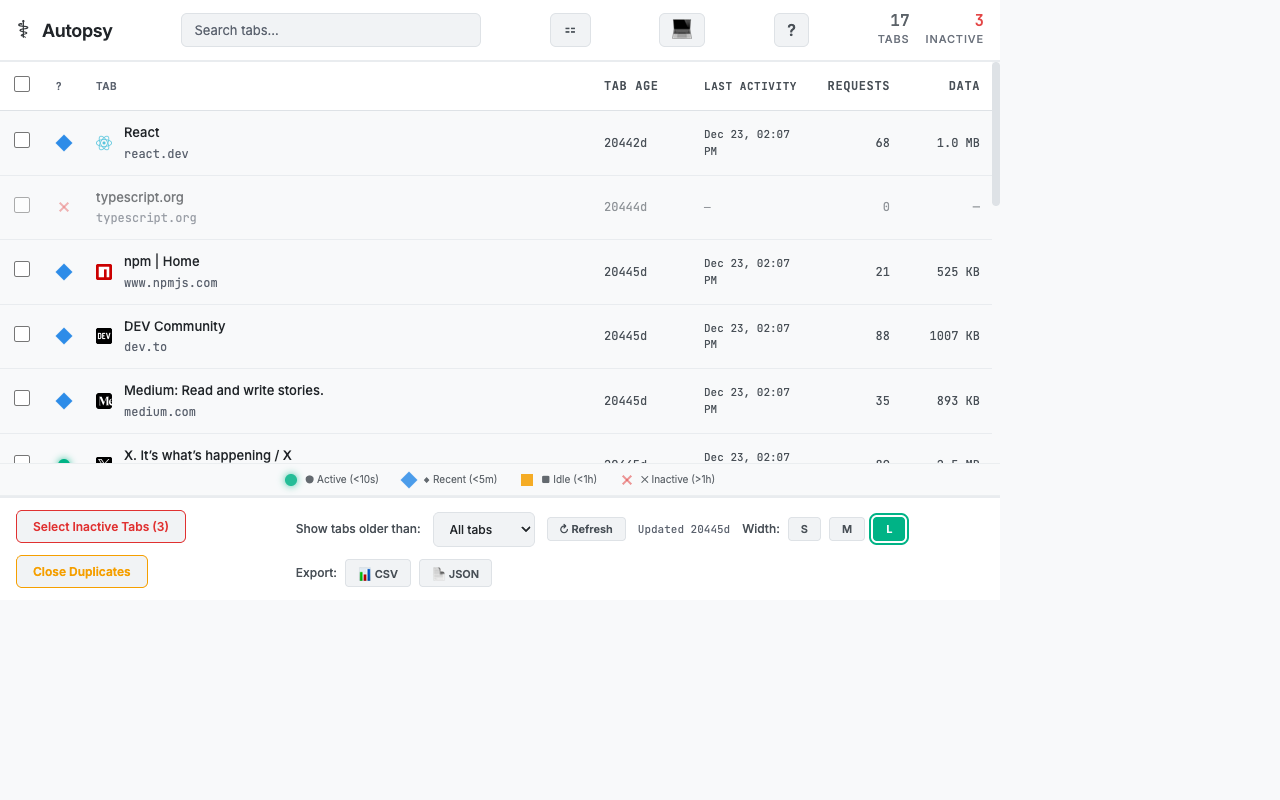
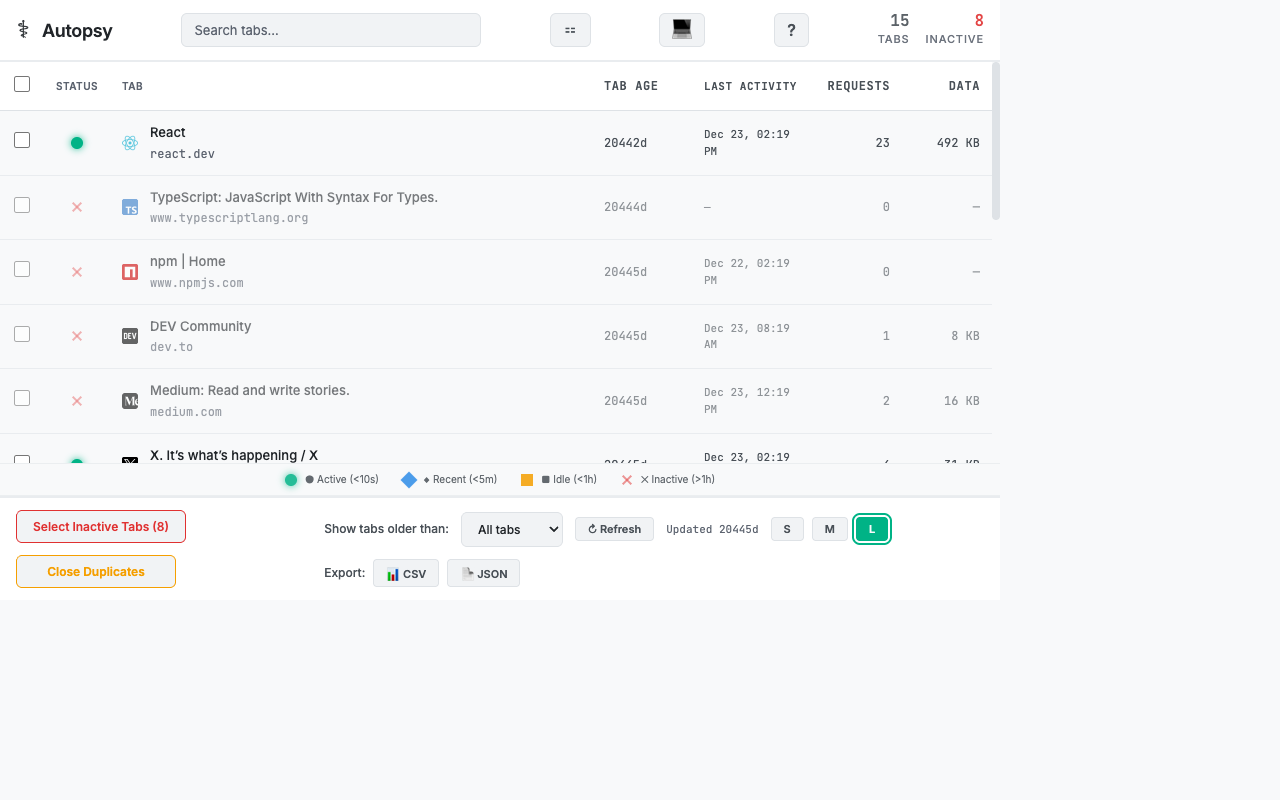
fix: Final screenshot and UI polish for Chrome Web Store submission
All screenshot issues resolved for v0.21.0:
- Replace typescript.org dead link with typescriptlang.org
- Change Status column header from '?' to 'Status' for clarity
- Increase wait times to ensure fake data propagates properly (2s → 4s)
- Extend popup load wait to ensure data fully loads (2s → 3s)

Previous fixes included:
- Filter out about:blank and extension pages from tab list
- Inject realistic varied tab ages (5m to 30d distribution)
- Inject realistic network activity for status variety
- Standardize all footer button styling
- Match Select Inactive and Close Duplicates widths (160px)
- Remove 'Width:' label, add tooltips to S/M/L buttons

Screenshots now show:
- Working test URLs (no dead links)
- Clear Status column header
- Realistic tab age distribution
- Varied Active/Recent/Idle/Inactive statuses
- Consistent, professional UI
- No overflow or cutoff issues
- All screenshots 1280×800 for Chrome Web Store

Ready for Chrome Web Store resubmission.

diff --git a/scripts/capture-screenshots.js b/scripts/capture-screenshots.js
@@ -42,7 +42,7 @@ const testUrls = [
   { url: 'https://medium.com', wait: 170 },
   { url: 'https://dev.to', wait: 140 },
   { url: 'https://npmjs.com', wait: 210 },
-  { url: 'https://typescript.org', wait: 260 },
+  { url: 'https://www.typescriptlang.org', wait: 260 },
   { url: 'https://react.dev', wait: 230 },
 ];
 
@@ -137,20 +137,23 @@ async function main() {
   console.log('✓ Storage cleared');
   await wait(1000); // Wait for storage to clear
 
-  // Set realistic fake ages for variety in screenshots
-  console.log('📅 Setting realistic tab ages...');
+  // Set realistic fake ages and network activity for variety in screenshots
+  console.log('📅 Setting realistic tab ages and activity...');
   const setupPage = await context.newPage();
   await setupPage.goto(popupUrl);
+
+  // Send message to background worker to set fake data
   await setupPage.evaluate(() => {
-    // Get all tabs and set varied ages
     return chrome.tabs.query({}).then(tabs => {
       const now = Date.now();
+
+      // Varied ages for realism
       const ages = [
-        5 * 60 * 1000,        // 5 minutes
-        15 * 60 * 1000,       // 15 minutes
-        45 * 60 * 1000,       // 45 minutes
-        2 * 60 * 60 * 1000,   // 2 hours
-        5 * 60 * 60 * 1000,   // 5 hours
+        5 * 60 * 1000,              // 5 minutes
+        15 * 60 * 1000,             // 15 minutes
+        45 * 60 * 1000,             // 45 minutes
+        2 * 60 * 60 * 1000,         // 2 hours
+        5 * 60 * 60 * 1000,         // 5 hours
         1 * 24 * 60 * 60 * 1000,    // 1 day
         3 * 24 * 60 * 60 * 1000,    // 3 days
         7 * 24 * 60 * 60 * 1000,    // 7 days
@@ -158,28 +161,59 @@ async function main() {
         30 * 24 * 60 * 60 * 1000,   // 30 days
       ];
 
+      // Activity patterns for varied statuses
+      const activityPatterns = [
+        { lastActivity: now - 10 * 1000, requestCount: 15, bytesReceived: 256000 },         // Active (< 30s)
+        { lastActivity: now - 60 * 1000, requestCount: 8, bytesReceived: 128000 },          // Recent (1min)
+        { lastActivity: now - 5 * 60 * 1000, requestCount: 5, bytesReceived: 64000 },       // Recent (5min)
+        { lastActivity: now - 45 * 60 * 1000, requestCount: 3, bytesReceived: 32000 },      // Idle (45min)
+        { lastActivity: now - 2 * 60 * 60 * 1000, requestCount: 2, bytesReceived: 16000 },  // Idle (2h)
+        { lastActivity: now - 6 * 60 * 60 * 1000, requestCount: 1, bytesReceived: 8000 },   // Inactive (6h)
+        { lastActivity: now - 24 * 60 * 60 * 1000, requestCount: 0, bytesReceived: 0 },     // Inactive (1d)
+        { lastActivity: null, requestCount: 0, bytesReceived: 0 },                          // Inactive (never)
+      ];
+
       const storageData = {};
+      const networkStatsData = {};
+
       tabs.forEach((tab, index) => {
-        if (tab.id && tab.url && !tab.url.startsWith('chrome-extension://')) {
-          // Assign varied ages in a cycling pattern
+        if (tab.id && tab.url && !tab.url.startsWith('chrome-extension://') && tab.url !== 'about:blank') {
+          // Set varied age
           const ageOffset = ages[index % ages.length];
           const created = now - ageOffset;
           storageData[`tab_${tab.id}_created`] = created;
+
+          // Set varied activity
+          const activity = activityPatterns[index % activityPatterns.length];
+          networkStatsData[tab.id] = {
+            requestCount: activity.requestCount,
+            bytesReceived: activity.bytesReceived,
+            lastActivity: activity.lastActivity,
+            firstActivity: created,
+          };
         }
       });
 
-      return chrome.storage.local.set(storageData);
+      // Set storage data
+      return chrome.storage.local.set(storageData).then(() => {
+        // Send network stats to background worker
+        return chrome.runtime.sendMessage({
+          action: 'setFakeNetworkStats',
+          stats: networkStatsData
+        });
+      });
     });
   });
+
   await setupPage.close();
-  console.log('✓ Realistic ages set');
-  await wait(1000);
+  console.log('✓ Realistic ages and activity set');
+  await wait(4000); // Wait longer for data to propagate to all contexts
 
   // Screenshot 1: Main Interface
   console.log('\n📸 Screenshot 1: Main Interface...');
   const popup1 = await context.newPage();
   await popup1.goto(popupUrl);
-  await wait(2000); // Wait for data to load
+  await wait(3000); // Wait for data to load completely
 
   // Set to large width (L button)
   try {

diff --git a/src/popup.tsx b/src/popup.tsx
@@ -238,8 +238,13 @@ export function App() {
   };
 
   const filteredTabs = tabs.filter(tab => {
-    // Filter out extension pages (including Autopsy itself)
-    if (tab.url.startsWith('chrome-extension://') || tab.url.startsWith('chrome://')) {
+    // Filter out extension pages (including Autopsy itself) and blank tabs
+    if (
+      tab.url.startsWith('chrome-extension://') ||
+      tab.url.startsWith('chrome://') ||
+      tab.url === 'about:blank' ||
+      !tab.url
+    ) {
       return false;
     }
 
@@ -967,7 +972,7 @@ export function App() {
                 class="col-status"
                 title="Status indicator: circle=active, diamond=recent, square=idle, x=inactive"
               >
-                <span aria-label="Status">?</span>
+                Status
               </th>
               <th
                 class="col-title"
@@ -1190,11 +1195,11 @@ export function App() {
             <span class="last-updated">Updated {formatTime(Date.now() - lastUpdated)}</span>
           </div>
           <div class="width-controls">
-            <label class="filter-label">Width:</label>
             <button
               class={`btn-width ${popupWidth === 600 ? 'active' : ''}`}
               onClick={() => saveWidth(600)}
               aria-label="Set small width"
+              title="Small (600px)"
             >
               S
             </button>
@@ -1202,6 +1207,7 @@ export function App() {
               class={`btn-width ${popupWidth === 800 ? 'active' : ''}`}
               onClick={() => saveWidth(800)}
               aria-label="Set medium width"
+              title="Medium (800px)"
             >
               M
             </button>
@@ -1209,6 +1215,7 @@ export function App() {
               class={`btn-width ${popupWidth === 1000 ? 'active' : ''}`}
               onClick={() => saveWidth(1000)}
               aria-label="Set large width"
+              title="Large (1000px)"
             >
               L
             </button>
